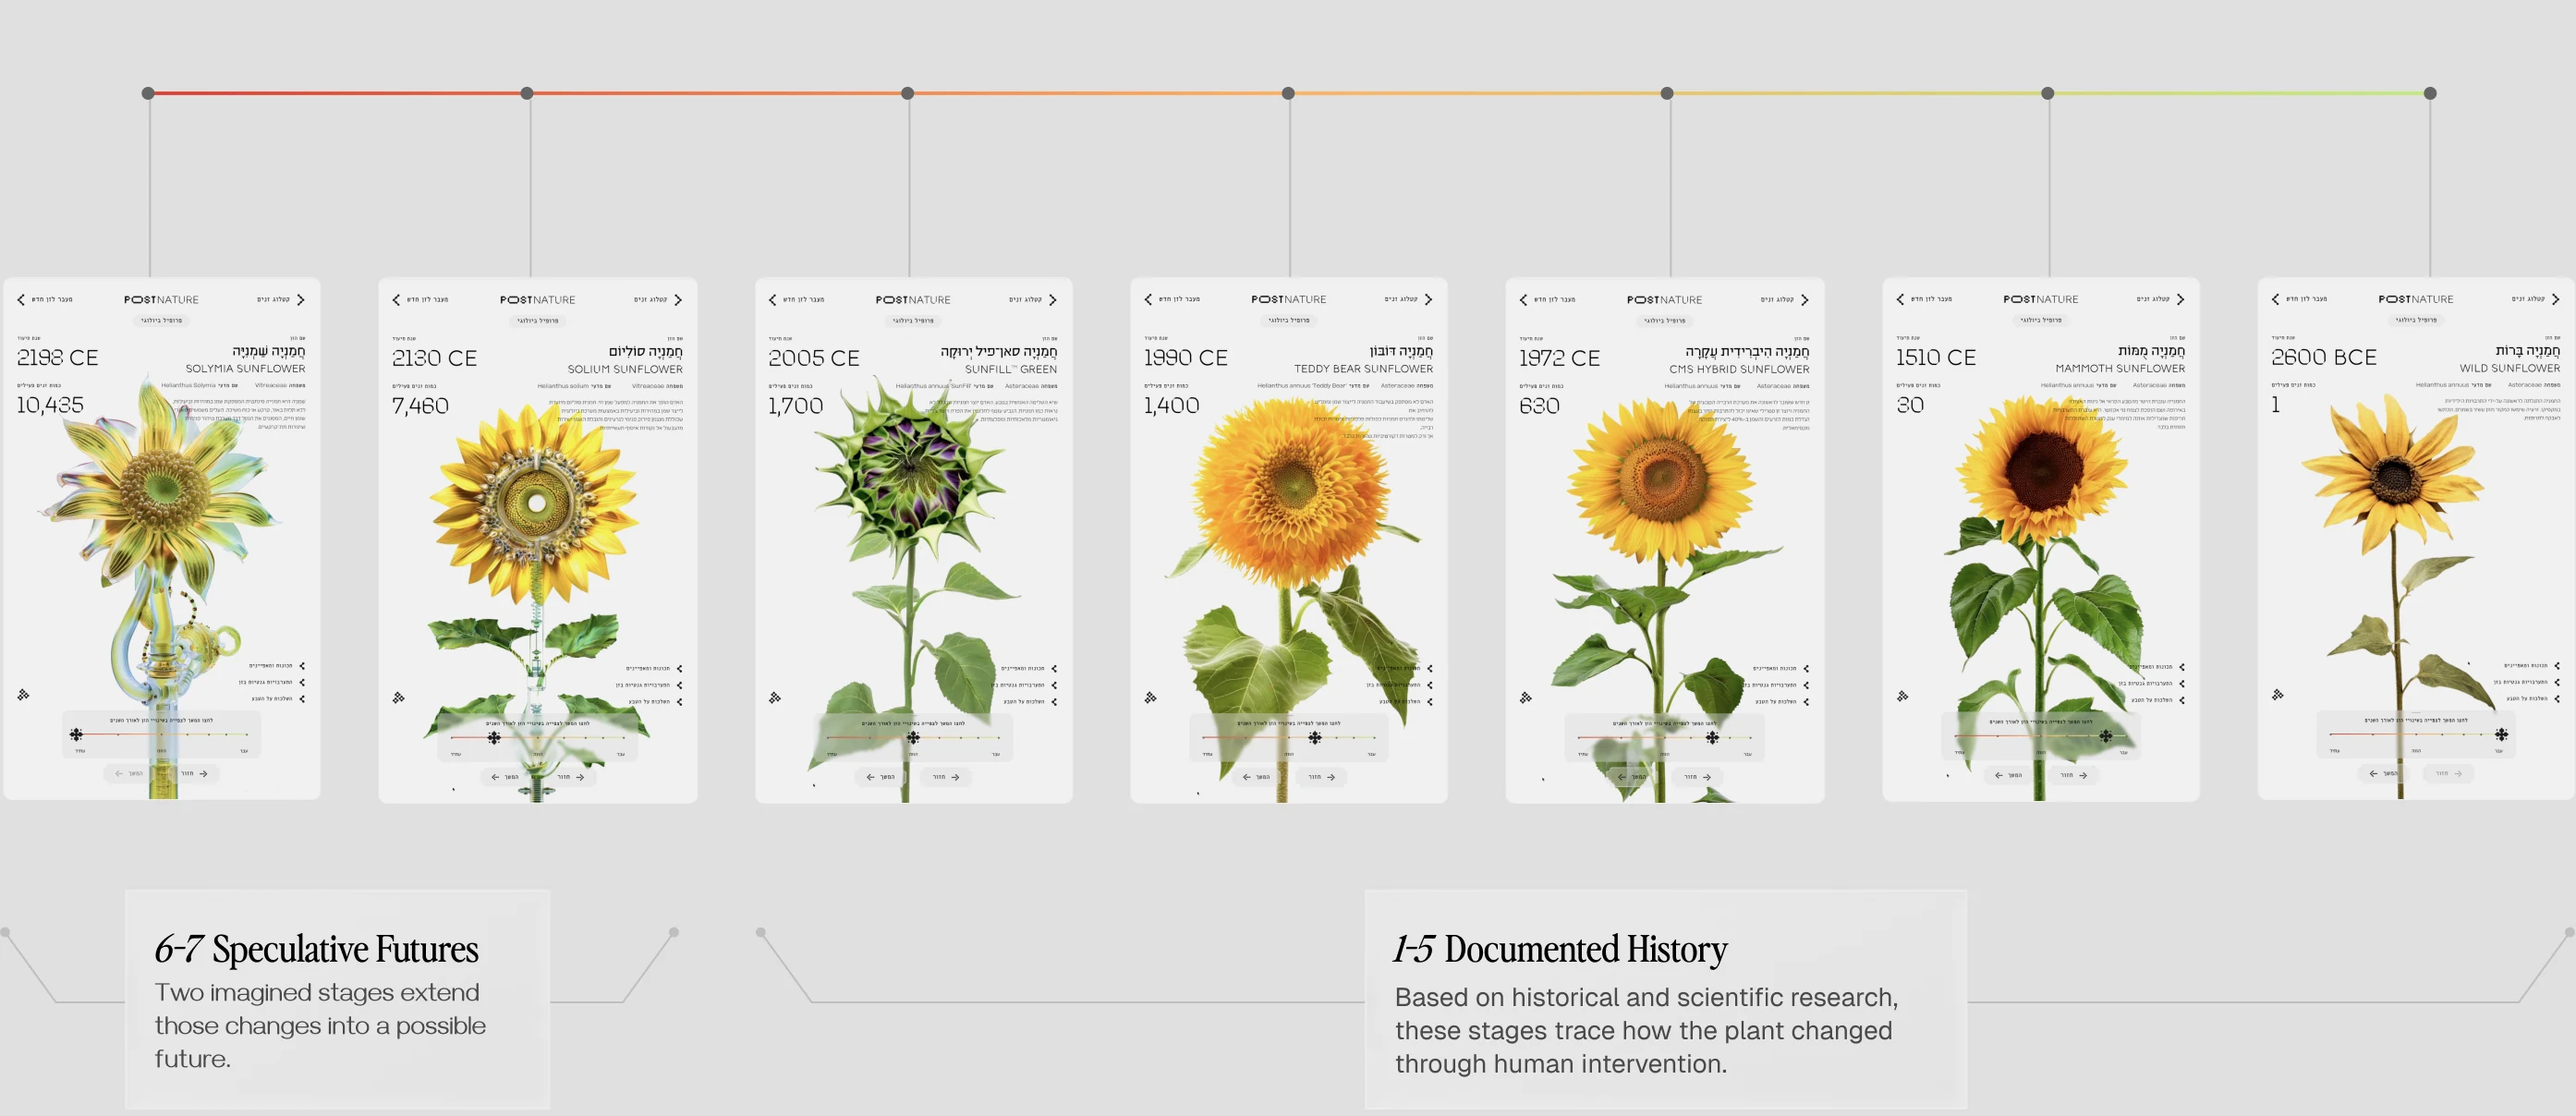
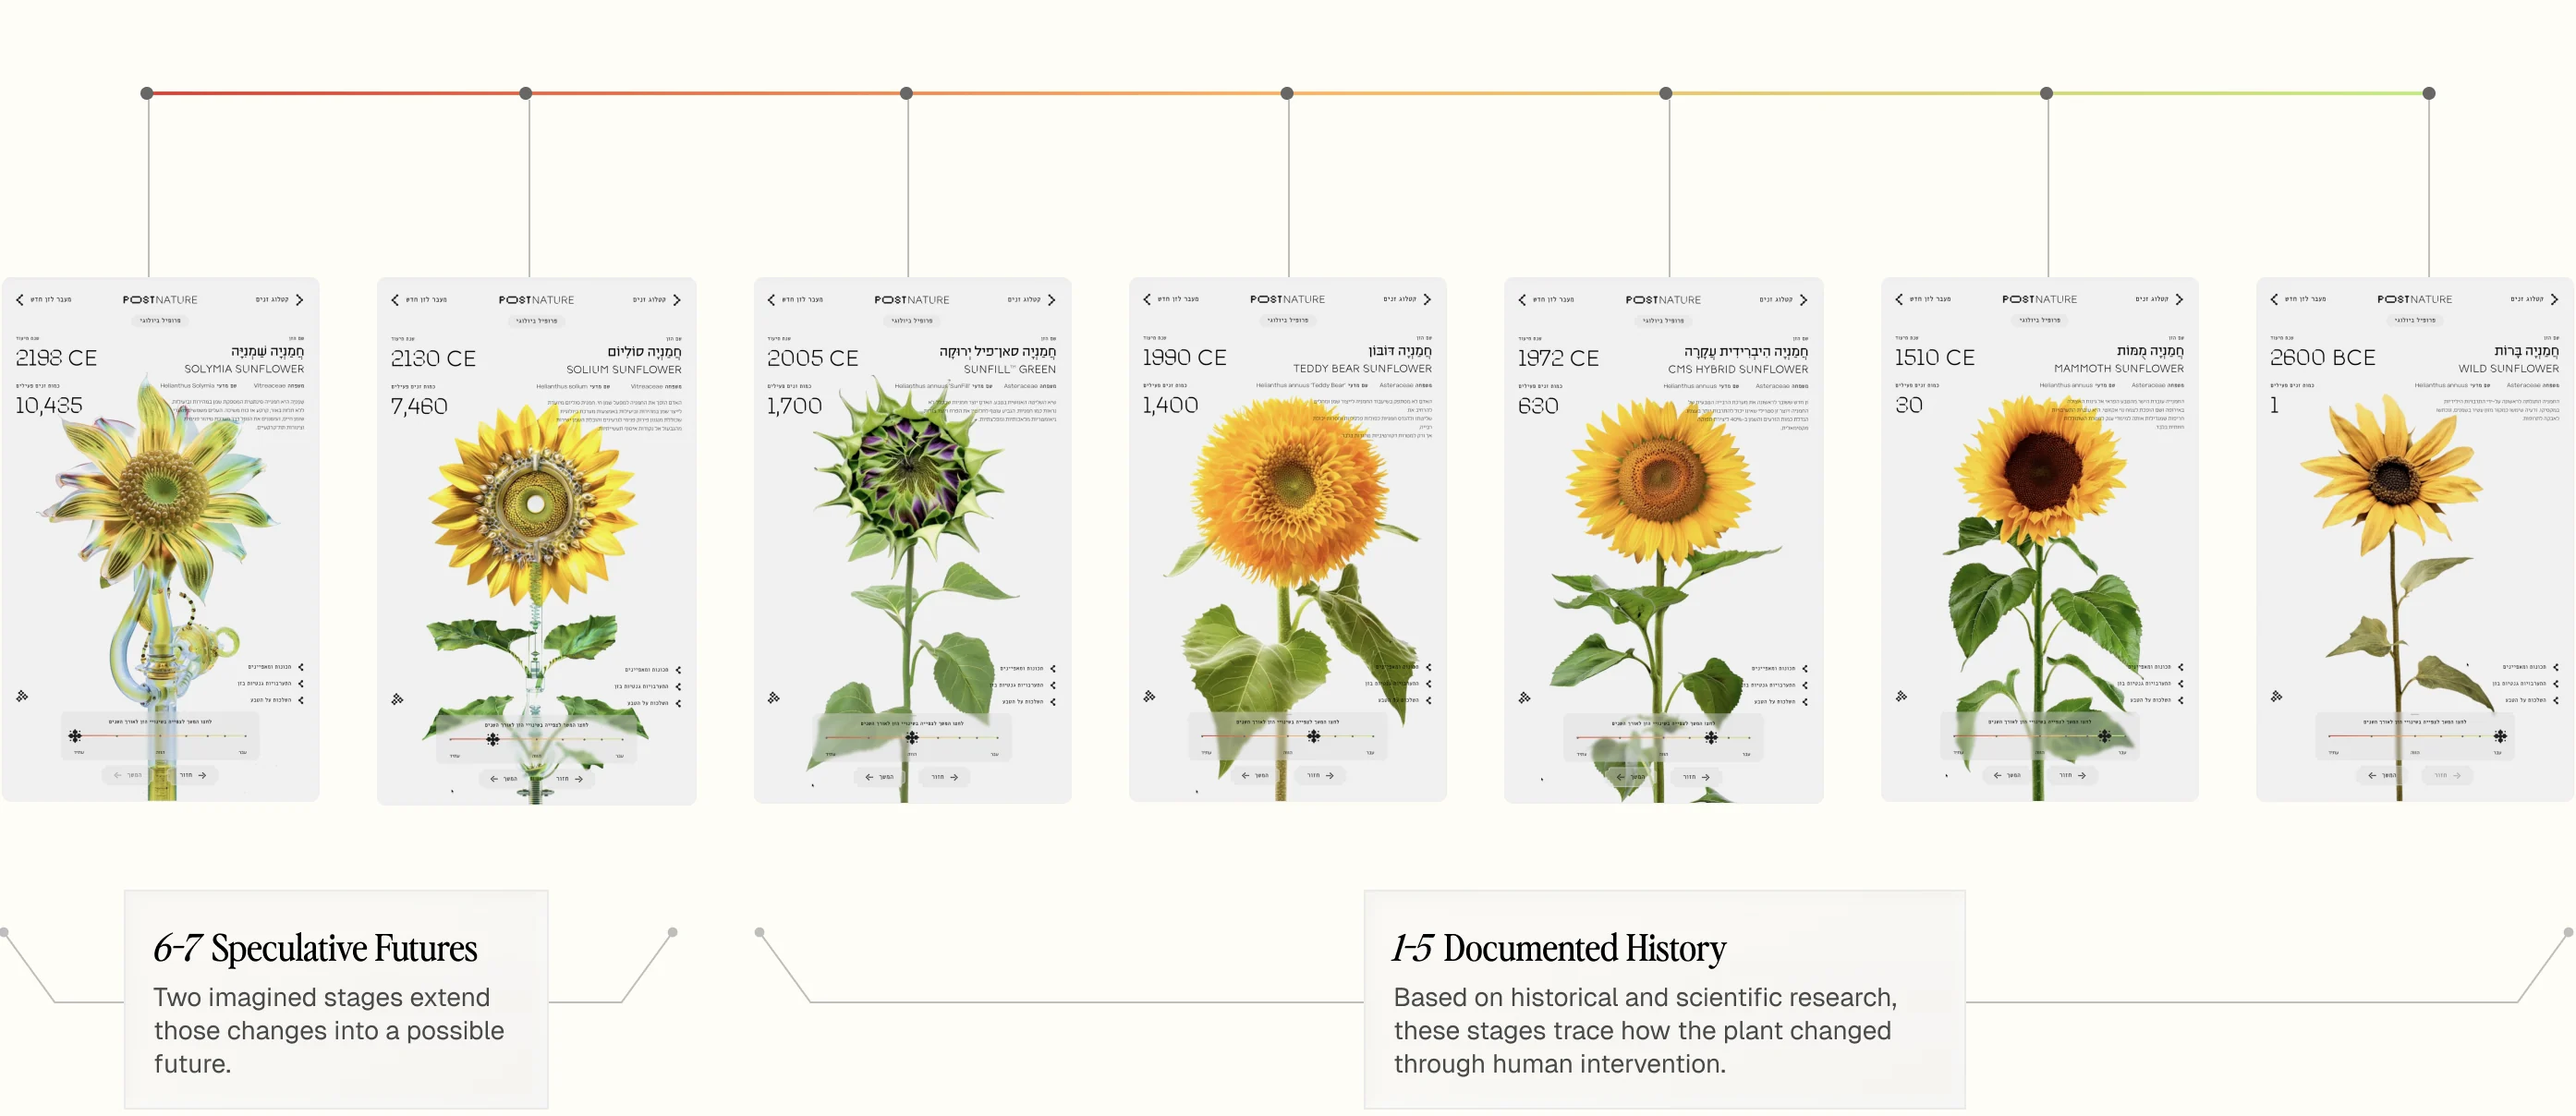
Post Nature: sunflower stages on cream instead of grey; Panorays: info block on the hero's purple like Figma
Claude-Session: https://claude.ai/code/session_01AmrZWkQw9hupbrEkueNUEt

diff --git a/work/panorays/index.html b/work/panorays/index.html
@@ -62,7 +62,7 @@ if(!p&&matchMedia('(max-width: 760px)').matches)d.classList.add('gate');})();
   </div>
 </div>
 <div class="page">
-<main class="case case--pn case--cut"><section class="case-hero"><div class="stack cut"><img class="tile" src="/assets/panorays/cut/00-0.webp" width="1440" height="649" alt="" decoding="async"></div><div class="case-info reveal" style="padding-top:calc(95 * var(--u));padding-bottom:calc(148 * var(--u))">
+<main class="case case--pn case--cut"><section class="case-hero"><div class="stack cut"><img class="tile" src="/assets/panorays/cut/00-0.webp" width="1440" height="649" alt="" decoding="async"></div><div class="case-info case-info--panorays reveal" style="padding-top:calc(95 * var(--u));padding-bottom:calc(148 * var(--u))">
     <div class="case-info__title"><p class="case-info__num">02</p><h1 class="case-info__name">Panorays</h1><div class="case-info__tags"><span class="tag">Brand Identity</span><span class="tag">Illustration</span><span class="tag">Character Design</span><span class="tag">Web Design</span></div></div>
     <div class="case-info__body"><p class="case-label">Info</p><div class="case-text"><p>Panorays helps businesses understand and manage cybersecurity risks across their third-party relationships. Built around the idea “Connections that just click,” the brand identity and website translate a complex security world into a bright, approachable experience through expressive illustrations, vibrant gradients, and Pano, the brand’s character.</p></div>
       <div class="case-meta"><div><p class="case-label">Role</p><p>Brand &amp; Digital Designer<br>Created at Guts Agency</p></div><div><p class="case-label">Year</p><p>2026</p></div></div></div>

diff --git a/work/kanopy/index.html b/work/kanopy/index.html
@@ -62,7 +62,7 @@ if(!p&&matchMedia('(max-width: 760px)').matches)d.classList.add('gate');})();
   </div>
 </div>
 <div class="page">
-<main class="case case--pn case--cut"><section class="case-hero"><div class="stack cut"><img class="tile" src="/assets/kanopy/cut/00-0.webp" width="1440" height="649" alt="" decoding="async"></div><div class="case-info reveal" style="padding-top:calc(95 * var(--u));padding-bottom:calc(148 * var(--u))">
+<main class="case case--pn case--cut"><section class="case-hero"><div class="stack cut"><img class="tile" src="/assets/kanopy/cut/00-0.webp" width="1440" height="649" alt="" decoding="async"></div><div class="case-info case-info--kanopy reveal" style="padding-top:calc(95 * var(--u));padding-bottom:calc(148 * var(--u))">
     <div class="case-info__title"><p class="case-info__num">04</p><h1 class="case-info__name">Kanopy</h1><div class="case-info__tags"><span class="tag">Brand Identity</span><span class="tag">Illustration</span><span class="tag">Web Design</span><span class="tag">UX/UI</span><span class="tag">Concept</span></div></div>
     <div class="case-info__body"><p class="case-label">Info</p><div class="case-text"><p>A bold cybersecurity brand built for the wild world of no-code and AI-powered business apps. Through a hand-crafted illustration system, vibrant identity, and digital experience, we positioned Kanopy as the guide that brings clarity and order to the jungle.</p></div>
       <div class="case-meta"><div><p class="case-label">Role</p><p>Lead Designer - Brand Identity &amp; Web<br>Created at Guts Agency</p></div><div><p class="case-label">Year</p><p>2025</p></div></div></div>

diff --git a/css/style.css b/css/style.css
@@ -1020,3 +1020,11 @@ html.gate .gate-screen { display: flex; flex-direction: column; justify-content:
   .case--cut .row--crop { padding: 0; margin: 0 0 var(--gap) !important; }
   .case--cut .row--crop .tile--flat { border-radius: 0; }
 }
+
+/* Panorays: the info block sits on the hero's purple hill, like Figma */
+.case-info--panorays { background: #CDC8FB; }
+.case-info--panorays.reveal { opacity: 1; transform: none; }
+.case-info--panorays { padding-bottom: calc(124 * var(--u)) !important; margin-bottom: calc(24 * var(--u)); }
+@media (max-width: 760px) {
+  .case-info--panorays { padding-bottom: calc(28 * var(--m)) !important; margin-bottom: var(--gap); }
+}

diff --git a/work/post-nature/index.html b/work/post-nature/index.html
@@ -65,7 +65,7 @@ if(!p&&matchMedia('(max-width: 760px)').matches)d.classList.add('gate');})();
 <main class="case case--pn">
 <section class="case-hero">
   <img class="tile" src="/assets/pn/hero.webp" width="1440" height="602" alt="Post Nature logotype" decoding="async">
-  <div class="case-info reveal"  style="padding-top:calc(47 * var(--u));padding-bottom:calc(99 * var(--u))">
+  <div class="case-info case-info--post-nature reveal"  style="padding-top:calc(47 * var(--u));padding-bottom:calc(99 * var(--u))">
     <div class="case-info__title">
       <p class="case-info__num">03</p>
       <h1 class="case-info__name">Post Nature</h1>
